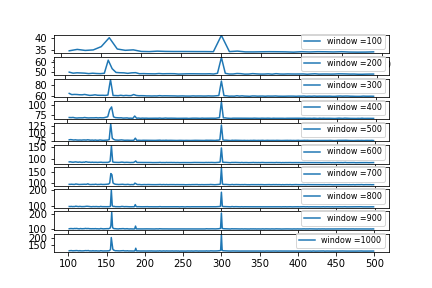
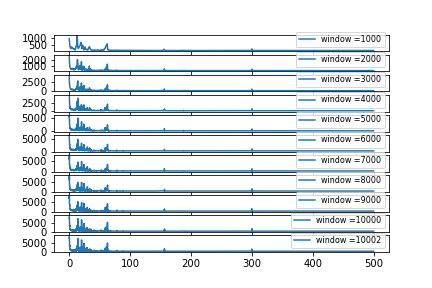
Add STFT and spatial FFT

Changed region(s): [[0.0301, 0.0938, 0.9028, 0.9375]]

diff --git a/spatial_FFT_vibration_web.py b/spatial_FFT_vibration_web.py
@@ -1,0 +1,156 @@
+
+import os, glob, numpy as np, matplotlib.pyplot as plt, scipy
+import imageio
+from moviepy.editor import VideoFileClip
+
+
+### Load the file
+
+freq = 500
+threshold = 20
+
+fname = glob.glob('web_{}hz*.avi'.format(freq))
+fname = [x for x in fname if not 'spider' in x]
+fname = fname[0]
+
+fnameFFT = fname + '.fft.npy'
+
+
+### Convert the video to python data
+
+if os.path.exists(fname + '.npy'):
+    data = np.load(fname + '.npy')
+else:
+    video = VideoFileClip(fname)
+    r = imageio.get_reader(fname)
+
+    data = np.zeros((video.size[0], video.size[1], video.reader.nframes), dtype=np.uint8)
+    idx = 0
+    for frame in r.iter_data():
+        data[:, :, idx] = np.mean(frame, axis = 2)
+        idx += 1
+    np.save(fname + '.npy', data)
+    
+data2 = data[:, :, :-1]
+### Extract the web index
+
+data = data2
+snr = np.zeros((data.shape[0], data.shape[1]))
+
+for divide in range(int(np.log2(data.shape[0]))):
+    space = int(data.shape[0]/2)
+    space_idx = np.zeros((data.shape[0], data.shape[1]), dtype=bool) 
+    web_idx = data[:, :, 0]> threshold
+    for i in range(0, 2):
+        for j in range(0,2):
+
+            space_idx[(space *i) :(space*(i+1)), (space *j) :(space*(j+1))] = True
+            res = np.where((web_idx == True) & (space_idx==True))
+            dataFFT = np.abs(scipy.fft(data[res[0], res[1], :]))
+            if len(dataFFT)==0:
+                snr[(space *i) :(space*(i+1)), (space *j) :(space*(j+1))] = 0
+                continue
+            ff = np.fft.fftfreq(dataFFT.shape[1], 0.001)
+            idx_i = (np.abs(ff - 200)).argmin()
+            idx_e =  (np.abs(ff - 400)).argmin()
+            temp = np.mean(dataFFT, axis = 0)[idx_i:idx_e]
+            temp2 = list(temp)
+            temp2_max = temp.max()
+            temp2.remove(temp.max())
+            temp2 = np.array(temp2)
+            snr[(space *i) :(space*(i+1)), (space *j) :(space*(j+1))] = temp2_max/temp2.mean()
+
+    data = data[0:space, 0:space, :]
+    if divide ==0 :
+        data = np.rot90(np.rot90(data))
+snr[0:512, 0:512] = np.rot90(np.rot90(snr[0:512, 0:512]))    
+
+
+data = data2[512:1024, 0:512, :]
+data = np.rot90(data)
+for divide in range(1, int(np.log2(data.shape[0]))):
+    space = int(data.shape[0]/2)
+    space_idx = np.zeros((data.shape[0], data.shape[1]), dtype=bool) 
+    web_idx = data[:, :, 0]> threshold
+    for i in range(0, 2):
+        for j in range(0,2):
+
+            space_idx[(space *i) :(space*(i+1)), (space *j) :(space*(j+1))] = True
+            res = np.where((web_idx == True) & (space_idx==True))
+            dataFFT = np.abs(scipy.fft(data[res[0], res[1], :]))
+            if len(dataFFT)==0:
+                snr[(space *i) :(space*(i+1)), (space *j) :(space*(j+1))] = 0
+                continue
+            ff = np.fft.fftfreq(dataFFT.shape[1], 0.001)
+            idx_i = (np.abs(ff - 200)).argmin()
+            idx_e =  (np.abs(ff - 400)).argmin()
+            temp = np.mean(dataFFT, axis = 0)[idx_i:idx_e]
+            temp2 = list(temp)
+            temp2_max = temp.max()
+            temp2.remove(temp.max())
+            temp2 = np.array(temp2)
+            snr[(512+space *i) :(512+space*(i+1)), (space *j) :(space*(j+1))] = temp2_max/temp2.mean()
+    data = data[0:space, 0:space, :]
+snr[512:1024, 0:512] = np.rot90(np.rot90(np.rot90(snr[512:1024, 0:512])))    
+ 
+
+
+data = data2[512:1024, 512:1024, :]
+for divide in range(1, int(np.log2(data.shape[0]))):
+    space = int(data.shape[0]/2)
+    space_idx = np.zeros((data.shape[0], data.shape[1]), dtype=bool) 
+    web_idx = data[:, :, 0]> threshold
+    for i in range(0, 2):
+        for j in range(0,2):
+
+            space_idx[(space *i) :(space*(i+1)), (space *j) :(space*(j+1))] = True
+            res = np.where((web_idx == True) & (space_idx==True))
+            dataFFT = np.abs(scipy.fft(data[res[0], res[1], :]))
+            if len(dataFFT)==0:
+                snr[(space *i) :(space*(i+1)), (space *j) :(space*(j+1))] = 0
+                continue
+            ff = np.fft.fftfreq(dataFFT.shape[1], 0.001)
+            idx_i = (np.abs(ff - 200)).argmin()
+            idx_e =  (np.abs(ff - 400)).argmin()
+            temp = np.mean(dataFFT, axis = 0)[idx_i:idx_e]
+            temp2 = list(temp)
+            temp2_max = temp.max()
+            temp2.remove(temp.max())
+            temp2 = np.array(temp2)
+            snr[(512+space *i) :(512+space*(i+1)), (512+space *j) :(512+space*(j+1))] = temp2_max/temp2.mean()
+    data = data[0:space, 0:space, :]
+
+
+data = data2[0:512,512:1024, :]
+data = np.rot90(np.rot90(np.rot90(data)))
+for divide in range(1, int(np.log2(data.shape[0]))):
+    space = int(data.shape[0]/2)
+    space_idx = np.zeros((data.shape[0], data.shape[1]), dtype=bool) 
+    web_idx = data[:, :, 0]> threshold
+    for i in range(0, 2):
+        for j in range(0,2):
+
+            space_idx[(space *i) :(space*(i+1)), (space *j) :(space*(j+1))] = True
+            res = np.where((web_idx == True) & (space_idx==True))
+            dataFFT = np.abs(scipy.fft(data[res[0], res[1], :]))
+            if len(dataFFT)==0:
+                snr[(space *i) :(space*(i+1)), (space *j) :(space*(j+1))] = 0
+                continue
+            ff = np.fft.fftfreq(dataFFT.shape[1], 0.001)
+            idx_i = (np.abs(ff - 200)).argmin()
+            idx_e =  (np.abs(ff - 400)).argmin()
+            temp = np.mean(dataFFT, axis = 0)[idx_i:idx_e]
+            temp2 = list(temp)
+            temp2_max = temp.max()
+            temp2.remove(temp.max())
+            temp2 = np.array(temp2)
+            snr[(space *i) :(space*(i+1)), (512+space *j) :(512+space*(j+1))] = temp2_max/temp2.mean()
+    data = data[0:space, 0:space, :]
+snr[ 0:512, 512:1024] = np.rot90(snr[ 0:512, 512:1024])
+ 
+
+
+
+plt.imshow(data2[:, :, 0]>20, cmap='gray') # interpolation='none'
+plt.imshow(snr, cmap='hot', alpha=0.9)
+plt.colorbar()

diff --git a/FFT_vibration_web_test_window.py b/FFT_vibration_web_test_window.py
@@ -30,18 +30,102 @@ else:
         idx += 1
     np.save(fname + '.npy', data)
     
-
+data = data[:, :, :-1]
 ### Extract the web index
 
 web_idx = data[:, :, 0]> threshold
 res = np.where(web_idx == True)
 
+## Find the signal to noise ratio of the orignal FFT
+#def signaltonoise(a, axis=0, ddof=0):
+#    a = np.asanyarray(a)
+#    m = a.mean(axis)
+#    sd = a.std(axis=axis, ddof=ddof)
+#    return np.where(sd == 0, 0, m/sd)
 
-### Apply FFT to data
-fig, ax = plt.subplots(10)
-for t in range(0, 10000, 1000):
 
-    dataFFT = np.abs(scipy.fft(data[res[0], res[1], 0:t+1000]))
+def signaltonoise(a, axis=0, ddof=0):
+    a = np.asanyarray(a)
+    idx = np.where(a > np.mean(a))
+    m_signal = a[idx].mean(axis)
+    idx = np.where(a <= np.mean(a))
+    m_noise = a[idx].mean(axis)
+    #sd = a.std(axis=axis, ddof=ddof)
+    return (m_signal/m_noise)
+
+### Apply sliding window to data
+fig, ax = plt.subplots(11)
+snr = None
+snr2_mean = None
+snr2_var = None
+peak = None
+var = None
+mean = None
+    
+for t in range(1000, 10002, 1000):
+
+    dataFFT = np.abs(scipy.fft(data[res[0], res[1], 0:t]))
     ff = np.fft.fftfreq(dataFFT.shape[1], 0.001)
-    ax[int(t/1000)].plot(ff[ff > 100], np.mean(dataFFT, axis=0)[ff > 100])
-#plt.savefig(fname.replace('.avi', '_fft.png'))
+    
+    # Get the SNR during 200-400Hz
+    idx_i = (np.abs(ff - 200)).argmin()
+    idx_e =  (np.abs(ff - 400)).argmin()
+    temp = np.mean(dataFFT, axis = 0)[idx_i:idx_e]
+    snr = np.append(snr, signaltonoise(temp))
+    
+    # Try other methods to calculate SNR: the peak to mean or peak to variance.
+    temp2 = list(temp)
+    temp2_max = temp.max()
+    temp2.remove(temp.max())
+    temp2 = np.array(temp2)
+    peak = np.append(peak, temp2_max)
+    mean = np.append(mean, temp2.mean())
+    var = np.append(var, temp2.var())
+    snr2_mean = np.append(snr2_mean, temp2_max/temp2.mean())
+    snr2_var = np.append(snr2_var, temp2_max/temp2.var())
+    
+    ax[int(t/1000-1)].plot(ff[ff > 0], np.mean(dataFFT, axis=0)[ff >0], label = 'window =' + str(t))
+    ax[int(t/1000-1)].legend(prop={"size":8})
+
+
+
+dataFFT = np.abs(scipy.fft(data[res[0], res[1], :]))
+ff = np.fft.fftfreq(dataFFT.shape[1], 0.001)
+    
+# Get the SNR during 200-400Hz
+idx_i = (np.abs(ff - 200)).argmin()
+idx_e =  (np.abs(ff - 400)).argmin()
+temp = np.mean(dataFFT, axis = 0)[idx_i:idx_e]
+snr = np.append(snr, signaltonoise(temp))
+temp2 = list(temp)
+temp2_max = temp.max()
+temp2.remove(temp.max())
+temp2 = np.array(temp2)
+peak = np.append(peak, temp2_max)
+mean = np.append(mean, temp2.mean())
+var = np.append(var, temp2.var())
+snr2_mean = np.append(snr2_mean, temp2_max/temp2.mean())
+snr2_var = np.append(snr2_var, temp2_max/temp2.var())
+ax[10].plot(ff[ff > 0], np.mean(dataFFT, axis=0)[ff >0], label = 'window =10002')
+ax[10].legend(prop={"size":8}, loc = 'lower left')
+plt.savefig('FFT_vibration_web_test_window_400hz.png')
+
+
+snr = np.delete(snr, 0)
+snr2_mean = np.delete(snr2_mean, 0)
+snr2_var = np.delete(snr2_var, 0)
+peak = np.delete(peak, 0)
+var = np.delete(var, 0)
+mean = np.delete(mean, 0)
+
+
+label = [1]*(len(snr)-1)
+label.append(0)
+xx = [str(i) for i in range(1000, 10002, 1000)]
+xx.append('10001')
+plt.figure()
+plt.scatter(xx, snr, c=label)
+plt.figure()
+plt.scatter(xx, snr2_mean, c=label)
+plt.figure()
+plt.scatter(xx, snr2_var, c=label)

diff --git a/STFT_vibration_web.py b/STFT_vibration_web.py
@@ -1,0 +1,66 @@
+import os, glob, numpy as np, matplotlib.pyplot as plt, scipy
+import imageio
+from moviepy.editor import VideoFileClip
+
+
+### Load the file
+
+freq = 500
+threshold = 20
+
+fname = glob.glob('web_{}hz*.avi'.format(freq))
+fname = [x for x in fname if not 'spider' in x]
+fname = fname[0]
+
+fnameFFT = fname + '.fft.npy'
+
+
+### Convert the video to python data
+
+if os.path.exists(fname + '.npy'):
+    data = np.load(fname + '.npy')
+else:
+    video = VideoFileClip(fname)
+    r = imageio.get_reader(fname)
+
+    data = np.zeros((video.size[0], video.size[1], video.reader.nframes), dtype=np.uint8)
+    idx = 0
+    for frame in r.iter_data():
+        data[:, :, idx] = np.mean(frame, axis = 2)
+        idx += 1
+    np.save(fname + '.npy', data)
+    
+data = data[:, :, :-1]
+### Extract the web index
+
+web_idx = data[:, :, 0]> threshold
+res = np.where(web_idx == True)
+
+f_spec = np.zeros((4000, 61))
+c=0
+for t in range(4000, 10002, 100):
+
+    dataFFT = np.abs(scipy.fft(data[res[0], res[1], (t-4000):t]))
+    f_spec[:,c] = np.mean(np.abs(dataFFT), axis =0)
+    c += 1
+f_spec = f_spec[1:, :]    
+ff = np.fft.fftfreq(dataFFT.shape[1], 0.001)
+t= [i for i in range(4000, 10002, 100)]
+t = np.array(t) 
+
+
+f_idx =np.where((ff>= 200) & (ff<=300))
+#f_idx =np.where((ff>= 0) )
+plt.pcolormesh(t, ff[f_idx], f_spec[f_idx])
+plt.colorbar()
+
+#from scipy import signal
+#f, t, Zxx = signal.stft(data[res[0], res[1], :], 1000, nperseg=5000)
+#plt.pcolormesh(t, f, np.mean(np.abs(Zxx), axis = 0), vmin=0, vmax =2 * np.sqrt(2))
+#plt.ylim([100, 500])
+#plt.show()
+
+#f, t, Sxx = signal.spectrogram(data[res[0], res[1], :], 1000, return_onesided=False)
+#plt.pcolormesh(t, f, np.mean(Sxx, axis =0))
+#plt.ylim([0, 500])
+

diff --git a/FFT_vibration_web.py b/FFT_vibration_web.py
@@ -5,7 +5,7 @@ from moviepy.editor import VideoFileClip
 
 ### Load the file
 
-freq = 400
+freq = 300
 threshold = 20
 
 fname = glob.glob('web_{}hz*.avi'.format(freq))
@@ -44,3 +44,4 @@ ff = np.fft.fftfreq(10002, 0.001)
 plt.figure()
 plt.plot(ff[ff > 0], np.mean(dataFFT, axis=0)[ff > 0])
 plt.savefig(fname.replace('.avi', '_fft.png'))
+
